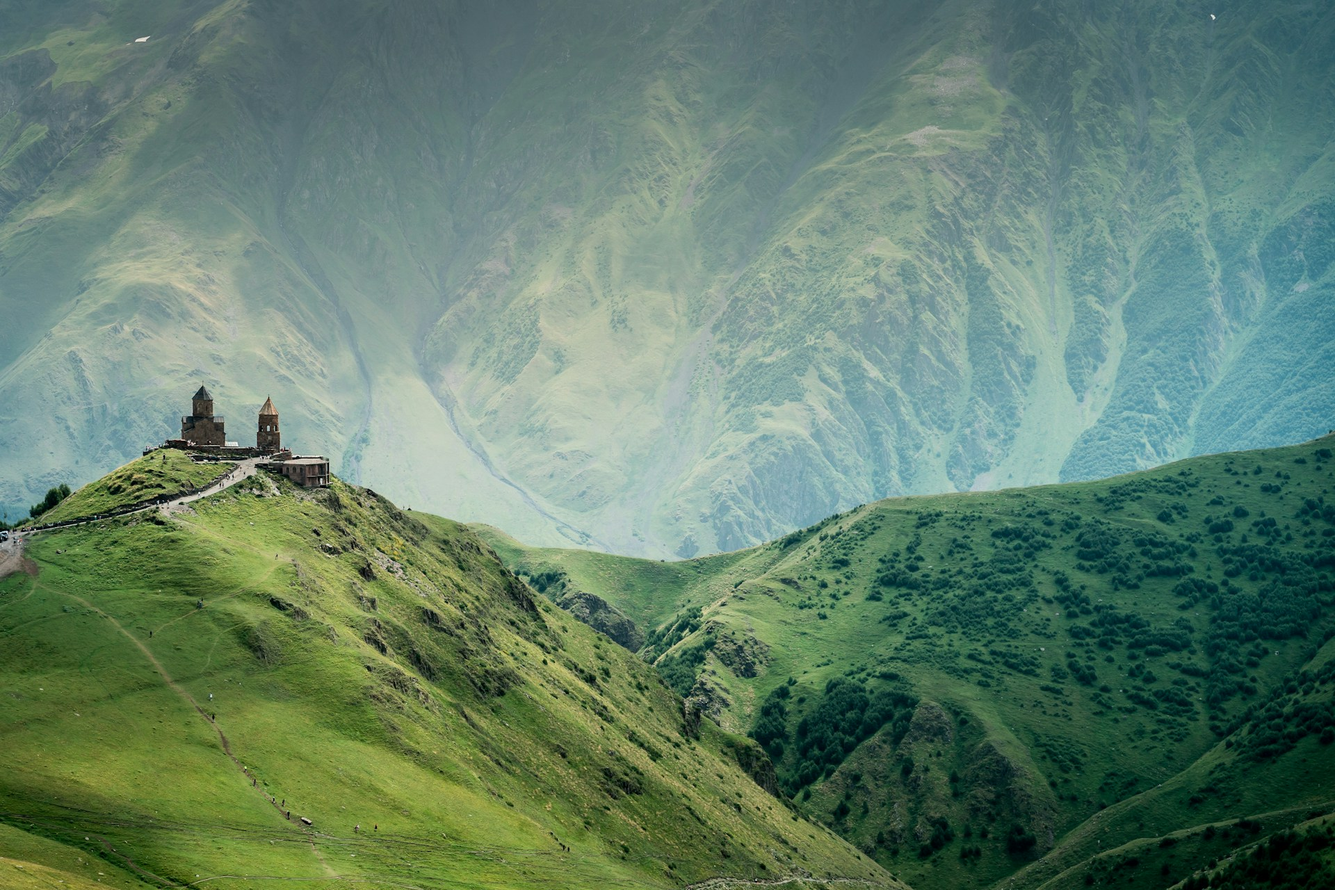
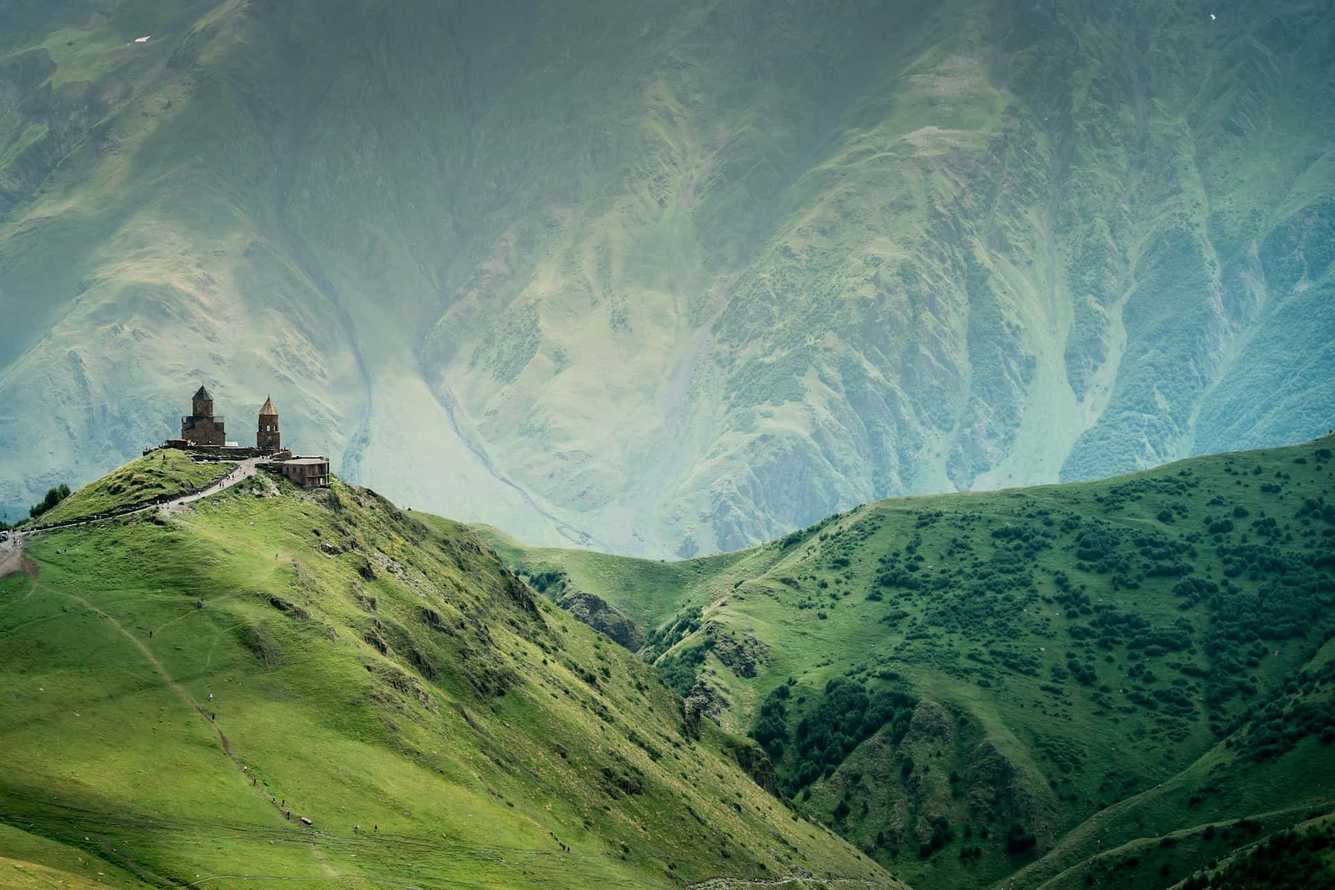
fixed profile auth modal and add functional on it, shorten tours_page_hero img size

Changed region(s): [[0.2812, 0.625, 0.3125, 0.6562], [0.1875, 0.5312, 0.2188, 0.5625]]

diff --git a/src/app/layout/public-layout/public-header/desktop-menu/desktop-menu.ts b/src/app/layout/public-layout/public-header/desktop-menu/desktop-menu.ts
@@ -1,9 +1,10 @@
 import { CommonModule } from '@angular/common';
 import { Component, inject } from '@angular/core';
-import { RouterLink } from '@angular/router';
+import { Router, RouterLink } from '@angular/router';
 import { HeaderService } from '../header-service';
 import { Typography } from "../../../../shared/components/typography/typography";
 import { UserInfoService } from '../../../../core/services/user-info/user-info-service';
+import { StatusService } from '../../../../core/services/user-status/status-service';
 
 
 @Component({
@@ -18,14 +19,30 @@ export class DesktopMenu {
   colorSwap = this.headerService.colorSwap;
 
   private userInfoService = inject(UserInfoService);
-
   private userInfo = this.userInfoService.userInfo;
-  profileNavUrl = `/profile/${(this.userInfo()?.name || '')}`
+
+  private statusService = inject(StatusService);
+  private isRegistered = this.statusService.isRegistered;
+  private isLoggedIn = this.statusService.isLoggedIn;
+
+  private router = inject(Router);
+
 
   scrollToFooter() {
     window.document.getElementById("footer")?.scrollIntoView({
       behavior: "smooth"
     })
+  };
+
+  navToProfilePage(): void {
+    if ( !this.isRegistered() || !this.isLoggedIn() ) {
+      this.statusService.openModal();
+      return;
+    }
+
+    const userName = this.userInfo()?.name;
+
+    this.router.navigate(['/profile', userName])
   }
 
 }

diff --git a/src/app/layout/public-layout/public-header/mobile-menu/mobile-menu.ts b/src/app/layout/public-layout/public-header/mobile-menu/mobile-menu.ts
@@ -5,6 +5,7 @@ import { Router } from '@angular/router';
 import { MenuSidebar } from "./menu-sidebar/menu-sidebar";
 import { HeaderService } from '../header-service';
 import { UserInfoService } from '../../../../core/services/user-info/user-info-service';
+import { StatusService } from '../../../../core/services/user-status/status-service';
 
 @Component({
   selector: 'app-mobile-menu',
@@ -16,11 +17,16 @@ export class MobileMenu {
 
   isMenuOpen = signal<boolean>(false);
 
-  private router = inject(Router);
   private headerService = inject(HeaderService);
-
+  
   private userInfoService = inject(UserInfoService);
   private userInfo = this.userInfoService.userInfo;
+  
+  private statusService = inject(StatusService);
+  private isRegistered = this.statusService.isRegistered;
+  private isLoggedIn = this.statusService.isLoggedIn;
+  
+  private router = inject(Router);
 
   colorSwap = this.headerService.colorSwap;
 
@@ -31,8 +37,15 @@ export class MobileMenu {
     this.isMenuOpen.set(false);
   };
 
-  navToProfilePage() {
-    this.router.navigate(['profile', `${this.userInfo()?.name}`]);
+  navToProfilePage(): void {
+    if ( !this.isRegistered() || !this.isLoggedIn() ) {
+      this.statusService.openModal();
+      return;
+    }
+
+    const userName = this.userInfo()?.name;
+
+    this.router.navigate(['/profile', userName])
   }
 
 }

diff --git a/src/app/shared/components/auth-modal/profile-auth-modal.html b/src/app/shared/components/auth-modal/profile-auth-modal.html
@@ -1,5 +1,5 @@
 
-@if ( statusService.isModalOpen() ) {
+@if ( isModalOpen() ) {
     <div class="modal-overlay">
         <div class="modal-card">
           <div class="modal-header">
@@ -8,7 +8,12 @@
           </div>
           
           <div class="modal-body">
-            <p>You need to be logged in to access your profile settings. Would you like to log in now?</p>
+            <p>
+              {{ isRegistered() ?
+              'You need to be logged in to access your profile settings. Would you like to log in now?' :
+              'Create an account to personalize your profile and save your settings. Would you like to sign up now?'
+              }}
+            </p>
           </div>
       
           <div class="modal-footer">
@@ -20,9 +25,9 @@
             </button>
             <button 
             class="btn btn-primary" 
-            (click)="navToLoginPage()"
+            (click)="isRegistered() ? navToLoginPage() : navToRegisterPage()"
             >
-            Log In
+            {{ isRegistered() ? 'Log In' : 'Sign Up' }}
             </button>
           </div>
         </div>

diff --git a/src/app/features/auth/pages/register/services/register-service.ts b/src/app/features/auth/pages/register/services/register-service.ts
@@ -2,6 +2,7 @@ import { inject, Injectable, signal } from '@angular/core';
 import { firstValueFrom, Subject } from 'rxjs';
 import { UserInfoType } from '../../../../../core/models/user-info.model';
 import { UserInfoService } from '../../../../../core/services/user-info/user-info-service';
+import { StatusService } from '../../../../../core/services/user-status/status-service';
 
 @Injectable({
   providedIn: 'root',
@@ -15,6 +16,8 @@ export class RegisterService {
 
   private userInfoService = inject(UserInfoService);
   readonly userInfo = this.userInfoService.userInfo;
+
+  private userStatusService = inject(StatusService);
 
   async confirm(){
     this.openUnsavedModal();
@@ -72,6 +75,7 @@ export class RegisterService {
   saveInfo(registrationInfo: UserInfoType) {
     this.isUserInfoSaved.set(true);
     this.userInfoService.userInfo.set(registrationInfo);
+    this.userStatusService.register();
     
     localStorage
     .setItem('userInfo', JSON.stringify(registrationInfo));

diff --git a/src/app/shared/components/auth-modal/profile-auth-modal.ts b/src/app/shared/components/auth-modal/profile-auth-modal.ts
@@ -5,19 +5,28 @@ import { Router } from '@angular/router';
 @Component({
   selector: 'app-global-canactive-modal',
   imports: [],
-  templateUrl: './global-canactive-modal.html',
-  styleUrl: './global-canactive-modal.css',
+  templateUrl: './profile-auth-modal.html',
+  styleUrl: './profile-auth-modal.css',
 })
 export class GlobalCanactiveModal {
 
-  statusService = inject(StatusService);
-  router = inject(Router);
+  private statusService = inject(StatusService);
+  isModalOpen = this.statusService.isModalOpen;
+  isRegistered = this.statusService.isRegistered;
+
+  private router = inject(Router);
 
   close() {
     this.statusService.closeModal();
-  }
+  };
+
   navToLoginPage() {
-    this.statusService.closeModal();
+    this.close();
     this.router.navigate(['/auth/login']);
-  }
+  };
+
+  navToRegisterPage(): void {
+    this.close();
+    this.router.navigate(['/auth/register']);
+  };
 }

diff --git a/src/app/core/services/user-status/status-service.ts b/src/app/core/services/user-status/status-service.ts
@@ -6,11 +6,15 @@ import { Injectable, signal } from '@angular/core';
 export class StatusService {
   
   isLoggedIn = signal<boolean>(false);
+  isRegistered = signal<boolean>(false);
   isModalOpen = signal<boolean>(false);
 
   constructor() {
     const status = JSON.parse(sessionStorage.getItem('userStatus') ?? 'false');
+    const isUserRegistered = localStorage.getItem('userInfo') ? true : false;
+
     this.isLoggedIn.set(status);
+    this.isRegistered.set(isUserRegistered);
   }
 
   login() {
@@ -23,7 +27,15 @@ export class StatusService {
     return false;
   }
 
-  closeModal() {
+  register(): void {
+    this.isRegistered.set(true);
+  }
+
+  openModal(): void {
+    this.isModalOpen.set(true);
+  }
+
+  closeModal(): void {
     this.isModalOpen.set(false);
   }
 

diff --git a/src/app/layout/public-layout/public-header/desktop-menu/desktop-menu.html b/src/app/layout/public-layout/public-header/desktop-menu/desktop-menu.html
@@ -1,9 +1,9 @@
 <nav class="desktop_menu">
-    <a class="menu_item" [routerLink]="profileNavUrl">
+    <button class="menu_item" (click)="navToProfilePage()">
         <ui-typography [color]="colorSwap()"> 
             Profile
         </ui-typography>
-    </a>
+    </button>
     <a class="menu_item" routerLink="/tours">   
             <ui-typography
             [color]="colorSwap()"

diff --git a/src/app/app.ts b/src/app/app.ts
@@ -1,6 +1,6 @@
 import { Component, signal } from '@angular/core';
 import { RouterOutlet } from '@angular/router';
-import { GlobalCanactiveModal } from "./shared/components/global-canactive-modal/global-canactive-modal";
+import { GlobalCanactiveModal } from "./shared/components/auth-modal/profile-auth-modal";
 
 @Component({
   selector: 'app-root',

diff --git a/src/app/features/home/components/sections/hero-section/hero-section.css b/src/app/features/home/components/sections/hero-section/hero-section.css
@@ -18,7 +18,7 @@
     position: absolute;
     inset: 0;
     background-color: rgba(0, 0, 0, 0.345);
-    animation: slideIn 0.7s ease-in-out;
+    animation: slideIn 0.7s ease-out;
     z-index: 1;
 }
 
